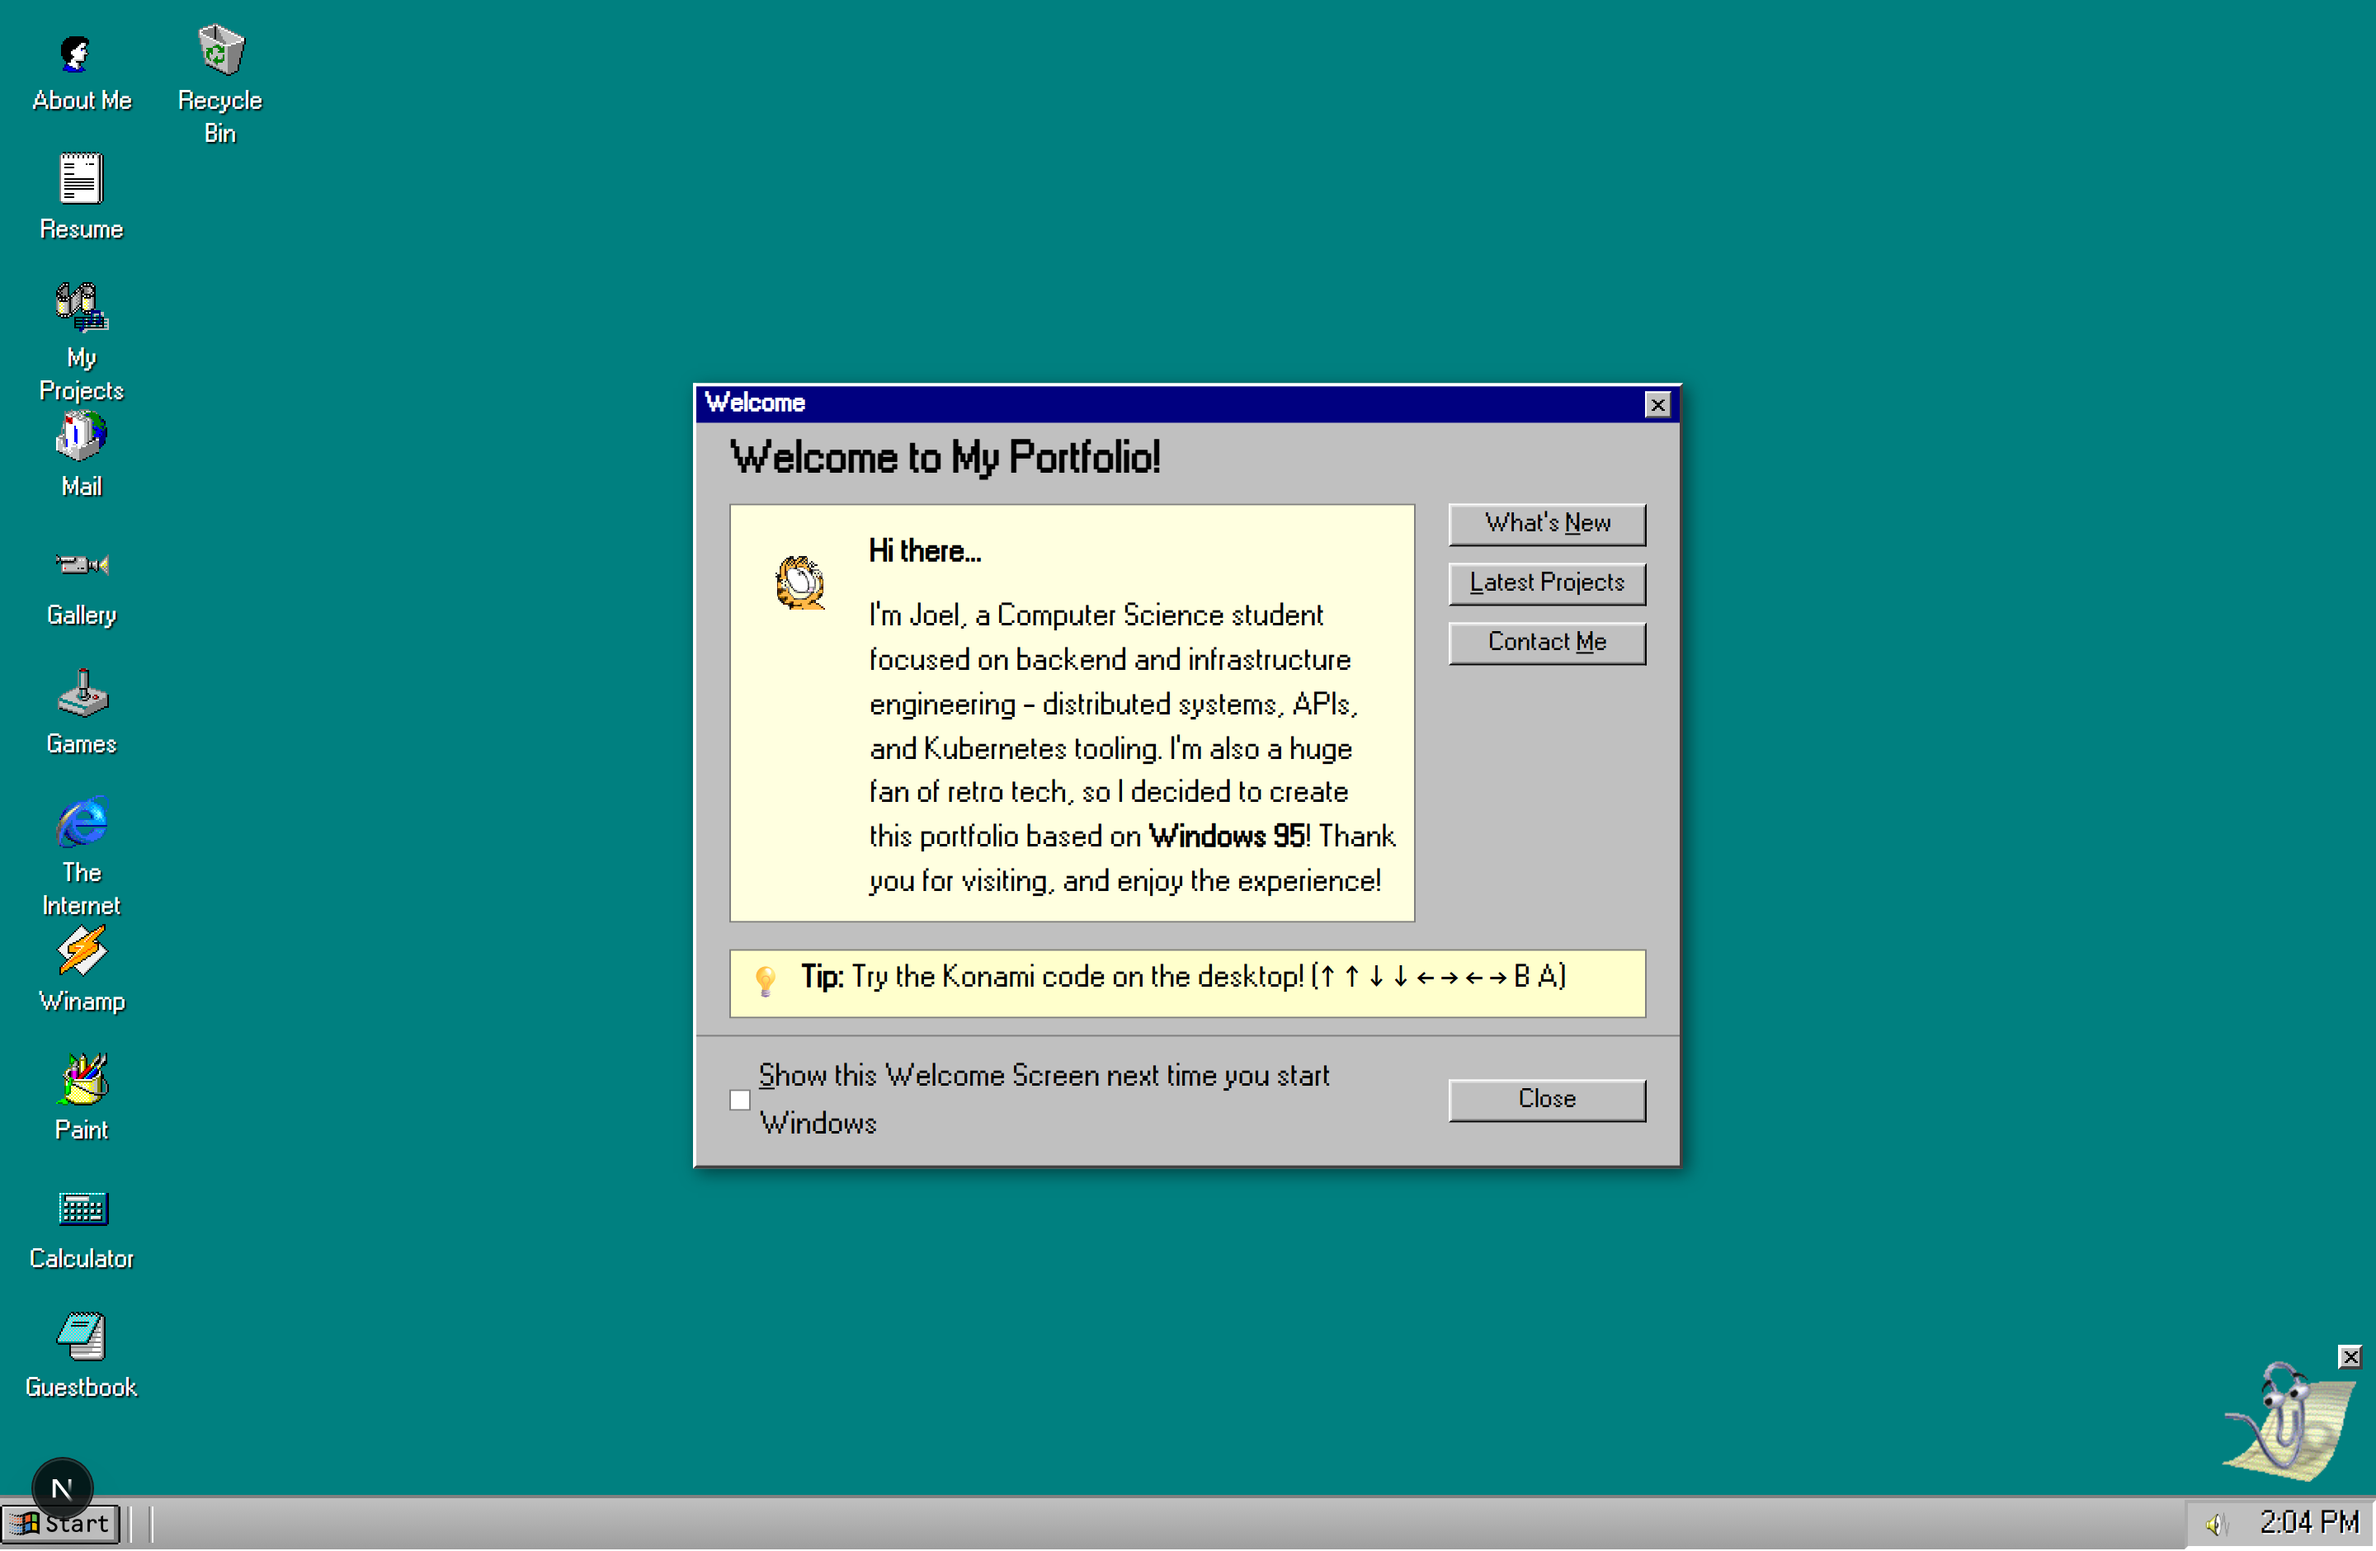
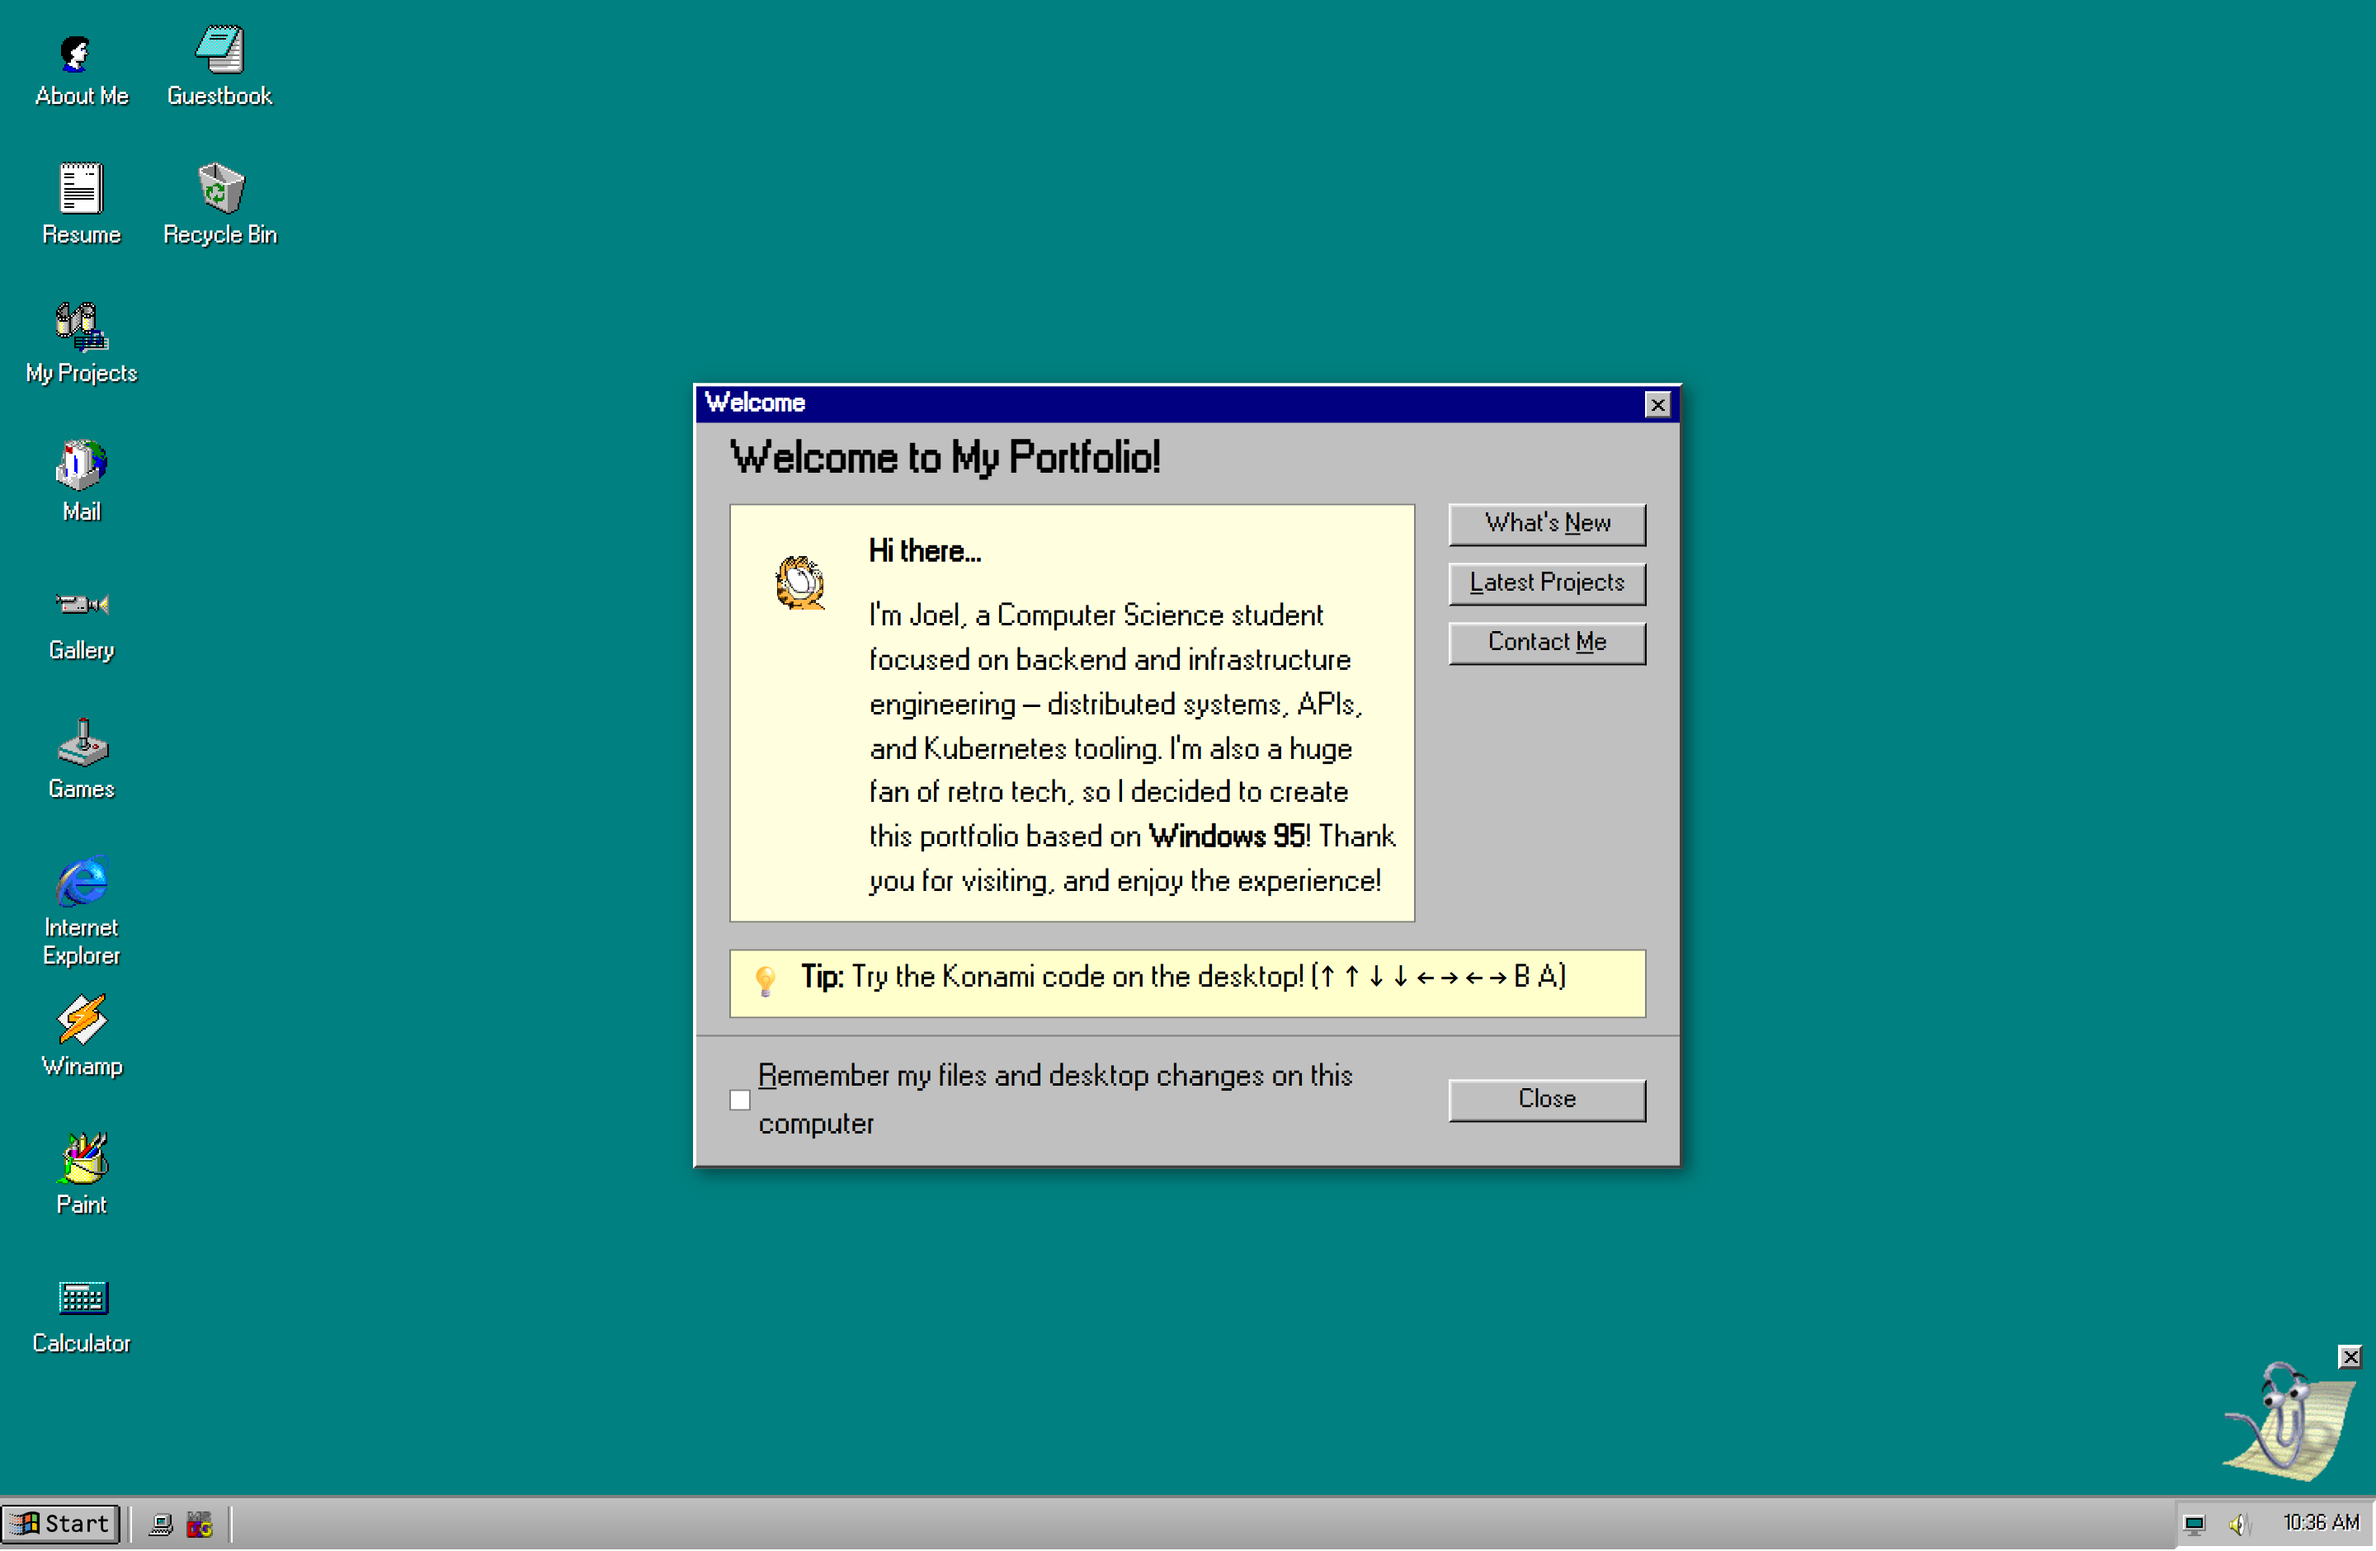
docs: README and What's New brought up to the present
The features table gains the welcome checkbox, Alt+Q, Find and
QuickRes rows; the Display Properties and Konami lines describe what
ships now; the Paint blurb mentions Save to Desktop. The desktop
screenshot is retaken with the current welcome dialog and its
persistence checkbox. The What's New panel carries the latest era,
newest first, and the Planned list is four things that are actually
planned.

Refs #71

diff --git a/components/welcome-popup.tsx b/components/welcome-popup.tsx
@@ -252,23 +252,23 @@ export default function WelcomePopup({ onClose }: WelcomePopupProps) {
           <div className="win95-content min-h-0 flex-1 overflow-auto p-[10px_20px]">
             <h2 className="text-sm font-bold mb-2">Recent Updates</h2>
             <ul className="list-disc pl-5 text-xs mb-4">
-              <li className="mb-1">Winamp, the real thing, with a synthesised opening track</li>
-              <li className="mb-1">Internet Explorer serves the actual web of 1996, by way of the archive</li>
-              <li className="mb-1">Clippit is back, dismissible, and can be summoned from the desktop</li>
-              <li className="mb-1">Five screen savers and a wallpaper picker that really apply</li>
-              <li className="mb-1">The Windows 95 sound scheme, synthesised rather than sampled</li>
+              <li className="mb-1">The secret battle plays by Gen I rules: a party screen, a real item bag, back sprites</li>
+              <li className="mb-1">Saving is your choice now: the checkbox below decides what this browser remembers</li>
+              <li className="mb-1">The wallpapers Windows 95 shipped, and Appearance schemes that recolor the whole shell</li>
+              <li className="mb-1">A QuickRes menu in the tray, from 640x480 up to 4K</li>
               <li className="mb-1">Find really searches the C:\ drive, and Sounds really plays the scheme</li>
               <li className="mb-1">File &gt; Print in Word prints the actual resume</li>
-              <li className="mb-1">Saved files and Paint drawings can survive between visits: check the box below</li>
-              <li className="mb-1">The keyboard drives the desktop: Tab, arrows, Enter, and Alt+Q to switch windows</li>
-              <li className="mb-1">The wallpapers Windows 95 shipped, and Appearance schemes that recolor the shell</li>
               <li className="mb-1">A real hit counter on the 1996 home page, and Clippy knows your visitor number</li>
-              <li className="mb-1">The desktop works on a phone: windows open full screen</li>
+              <li className="mb-1">The keyboard drives the desktop: Tab, arrows, Enter, and Alt+Q to switch windows</li>
+              <li className="mb-1">Wrong addresses get a proper Windows 95 error page</li>
             </ul>
 
             <h2 className="text-sm font-bold mb-2">Planned Features</h2>
             <ul className="list-disc pl-5 text-xs">
               <li className="mb-1">A Properties sheet for files inside Explorer</li>
+              <li className="mb-1">Stacked Up Summit 2026 photos in the gallery</li>
+              <li className="mb-1">Shell sort joining the sorting visualiser race</li>
+              <li className="mb-1">The behaviour checks moving into the repo as a test suite</li>
             </ul>
           </div>
 

diff --git a/README.md b/README.md
@@ -62,7 +62,7 @@ FreeCell knows its 32,000 deals by number, and they are the real ones: game 617 
 
 </div>
 
-Pencil, brush, eraser, fill, shapes, the colour palette along the bottom. It draws, it undoes, and it saves what you make.
+Pencil, brush, eraser, fill, shapes, the colour palette along the bottom. It draws, it undoes, and Save to Desktop turns a drawing into a desktop icon that can outlive the visit.
 
 <div align="center">
 <img src=".github/assets/paint.png" alt="The MS Paint clone with its toolbar and colour palette" width="90%" />
@@ -127,9 +127,9 @@ The photos sit in `C:\My Pictures` as an Explorer folder in Thumbnail view, one 
 | --- | --- |
 | **Winamp** | the real 2.9 skin engine, whipping the llama, with a synthesised opening track |
 | **Internet Explorer** | carries its own little internet, hit counter included |
-| **Konami code** | ↑ ↑ ↓ ↓ ← → ← → B A, anywhere on the desktop, for a six on six battle |
+| **Konami code** | ↑ ↑ ↓ ↓ ← → ← → B A, anywhere on the desktop, for a six on six battle with party menus, a real item bag, and back sprites |
 | **Ctrl+Alt+R** | Run takes the real names: `calc`, `winmine`, `sol`, `mspaint`, `iexplore` |
-| **Display Properties** | wallpapers, colour schemes, five real screen savers, and a Desktop area slider that changes the resolution |
+| **Display Properties** | the wallpapers Windows 95 shipped, Appearance schemes that recolour the whole shell, five real screen savers, and resolutions from 640x480 up to 4K |
 | **Clippy** | bottom right, contextual, dismissible for good |
 | **Shut Down** | ends on the amber it's-now-safe screen; Restart reboots the machine |
 | **Accessories** | WordPad to Disk Defragmenter, present and accounted for |
@@ -140,6 +140,10 @@ The photos sit in `C:\My Pictures` as an Explorer folder in Thumbnail view, one 
 | **The clock** | click it for Date/Time Properties, ticking analogue face and all |
 | **Release Notes** | Start > Documents, the whole history of the desktop in the desktop |
 | **Right-click** | the desktop, the icons, the Solitaire table, everywhere |
+| **The welcome checkbox** | opt in, and your files, drawings and desktop icons survive between visits |
+| **Alt+Q** | the window switcher; Tab, arrows and Enter drive the desktop |
+| **Find** | Start > Find genuinely searches the virtual drive, file contents included |
+| **QuickRes** | the little monitor in the tray pops a resolution menu, as the PowerToy did |
 
 </div>
 
